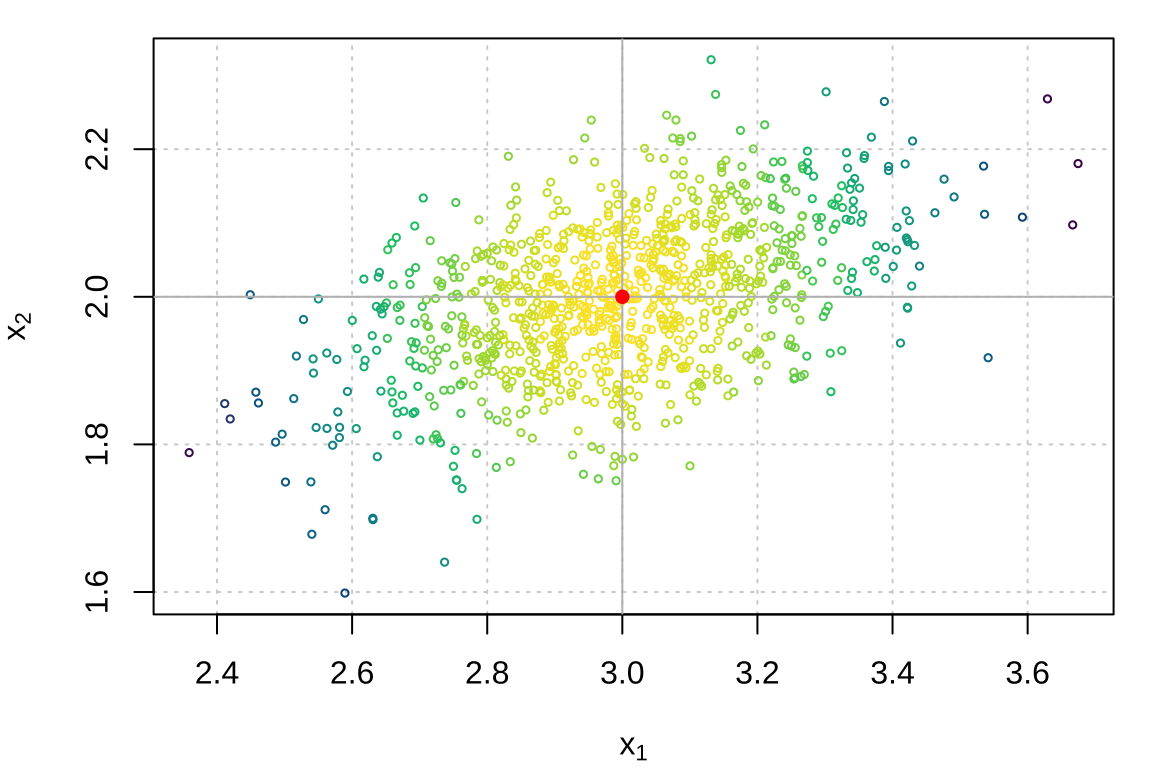
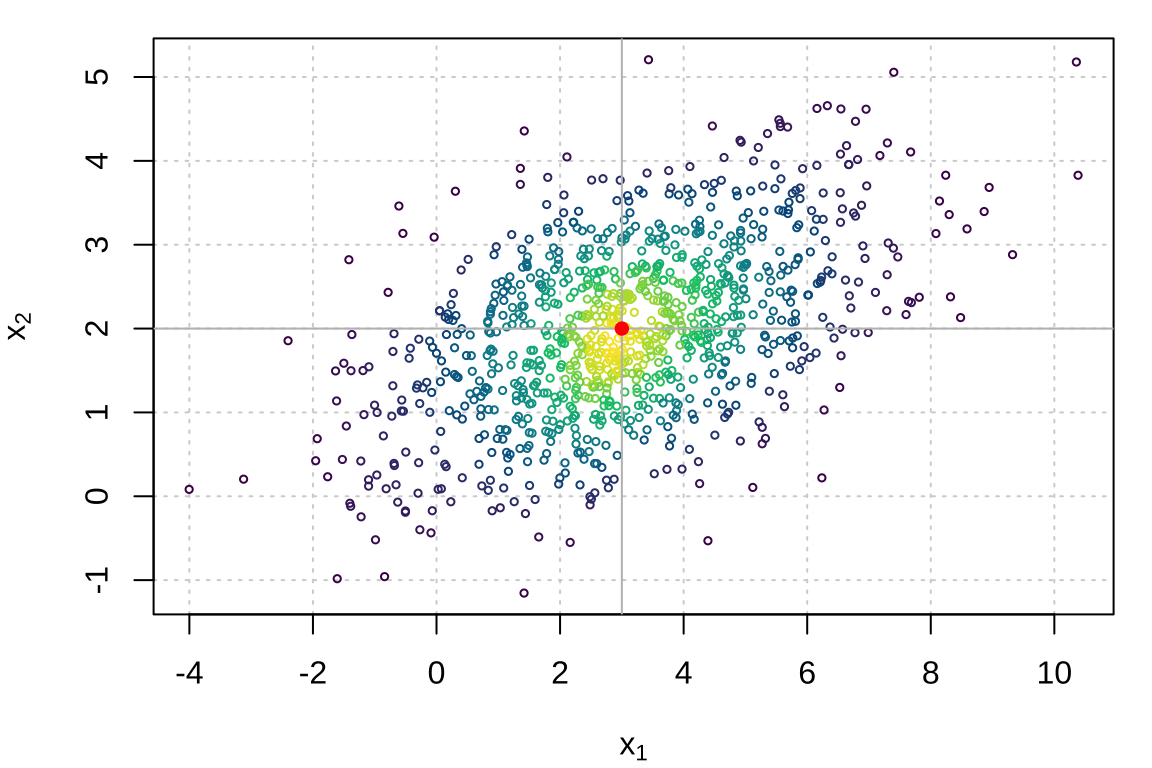
update

diff --git a/content/post/2023-10-02-bayesian-workflow/index.html b/content/post/2023-10-02-bayesian-workflow/index.html
@@ -816,7 +816,12 @@ fit_multi_normal$summary(.num_args = list(sigfig = 4, notation = &quot;dec&quot;
     strip.position = &quot;top&quot;, ncol = 1
   )
 ) + theme_bw(base_size = 12)</code></pre>
-<p><img src="{{< blogdown/postref >}}index_files/figure-html/unnamed-chunk-28-1.png" width="672" /></p>
+<div class="figure"><span style="display:block;" id="fig:fig-trace-dens-1"></span>
+<img src="{{< blogdown/postref >}}index_files/figure-html/fig-trace-dens-1.png" alt="采样序列的轨迹和分布" width="576" />
+<p class="caption">
+图 4.2: 采样序列的轨迹和分布
+</p>
+</div>
 <pre class="r"><code>
 mcmc_dens(fit_multi_normal$draws(c(&quot;yhat[1,1]&quot;, &quot;yhat[1,2]&quot;)),
   facet_args = list(
@@ -824,25 +829,47 @@ mcmc_dens(fit_multi_normal$draws(c(&quot;yhat[1,1]&quot;, &quot;yhat[1,2]&quot;)
     strip.position = &quot;top&quot;, ncol = 1
   )
 ) + theme_bw(base_size = 12)</code></pre>
-<p><img src="{{< blogdown/postref >}}index_files/figure-html/unnamed-chunk-28-2.png" width="672" /></p>
-<p>模拟采样序列的分布图，这就是一组来自二元正态分布的随机数。</p>
+<div class="figure"><span style="display:block;" id="fig:fig-trace-dens-2"></span>
+<img src="{{< blogdown/postref >}}index_files/figure-html/fig-trace-dens-2.png" alt="采样序列的轨迹和分布" width="576" />
+<p class="caption">
+图 4.3: 采样序列的轨迹和分布
+</p>
+</div>
+<p>这就是一组来自二元正态分布的随机数。</p>
 <pre class="r"><code>mcmc_scatter(fit_multi_normal$draws(c(&quot;yhat[1,1]&quot;, &quot;yhat[1,2]&quot;))) +
   theme_bw(base_size = 12)</code></pre>
-<p><img src="{{< blogdown/postref >}}index_files/figure-html/unnamed-chunk-29-1.png" width="672" /></p>
-<p>提取采样数据，整理成矩阵</p>
+<div class="figure"><span style="display:block;" id="fig:fig-bivar-scatter"></span>
+<img src="{{< blogdown/postref >}}index_files/figure-html/fig-bivar-scatter-1.png" alt="生成二元正态分布的随机数" width="576" />
+<p class="caption">
+图 4.4: 生成二元正态分布的随机数
+</p>
+</div>
+<p>提取采样数据，整理成矩阵。</p>
 <pre class="r"><code># 抽取原始采样数据
 yhat &lt;- fit_multi_normal$draws(c(&quot;yhat[1,1]&quot;, &quot;yhat[1,2]&quot;))
 # 合并多条链
 yhat_mean &lt;- apply(yhat, c(1,3), mean)
 # 整理成二维矩阵
 x &lt;- as.matrix(yhat_mean)</code></pre>
-<p>1000 个随机数的分布图</p>
+<p>1000 个抽自二元正态分布的随机数。</p>
+<pre class="r"><code>op &lt;- par(mar = c(4, 4, 1, 1))
+plot(x = x[, 1], y = x[, 2],
+  col = densCols(x,
+    bandwidth = c(0.5, 0.5),
+    nbin = c(51L, 51L), colramp = hcl.colors
+  ),
+  type = &quot;p&quot;, cex = 0.5, panel.first = grid(),
+  xlab = expression(x[1]), ylab = expression(x[2])
+)
+abline(v = 3, h = 2, col = &quot;gray&quot;)
+points(x = 3, y = 2, col = &quot;red&quot;, pch = 16)</code></pre>
 <div class="figure"><span style="display:block;" id="fig:fig-bivar-bayes"></span>
-<img src="{{< blogdown/postref >}}index_files/figure-html/fig-bivar-bayes-1.png" alt="生成二元正态分布的随机数" width="576" />
+<img src="{{< blogdown/postref >}}index_files/figure-html/fig-bivar-bayes-1.png" alt="二元正态分布" width="576" />
 <p class="caption">
-图 4.2: 生成二元正态分布的随机数
+图 4.5: 二元正态分布
 </p>
 </div>
+<pre class="r"><code>on.exit(par(op), add = TRUE)</code></pre>
 </div>
 </div>
 </div>
